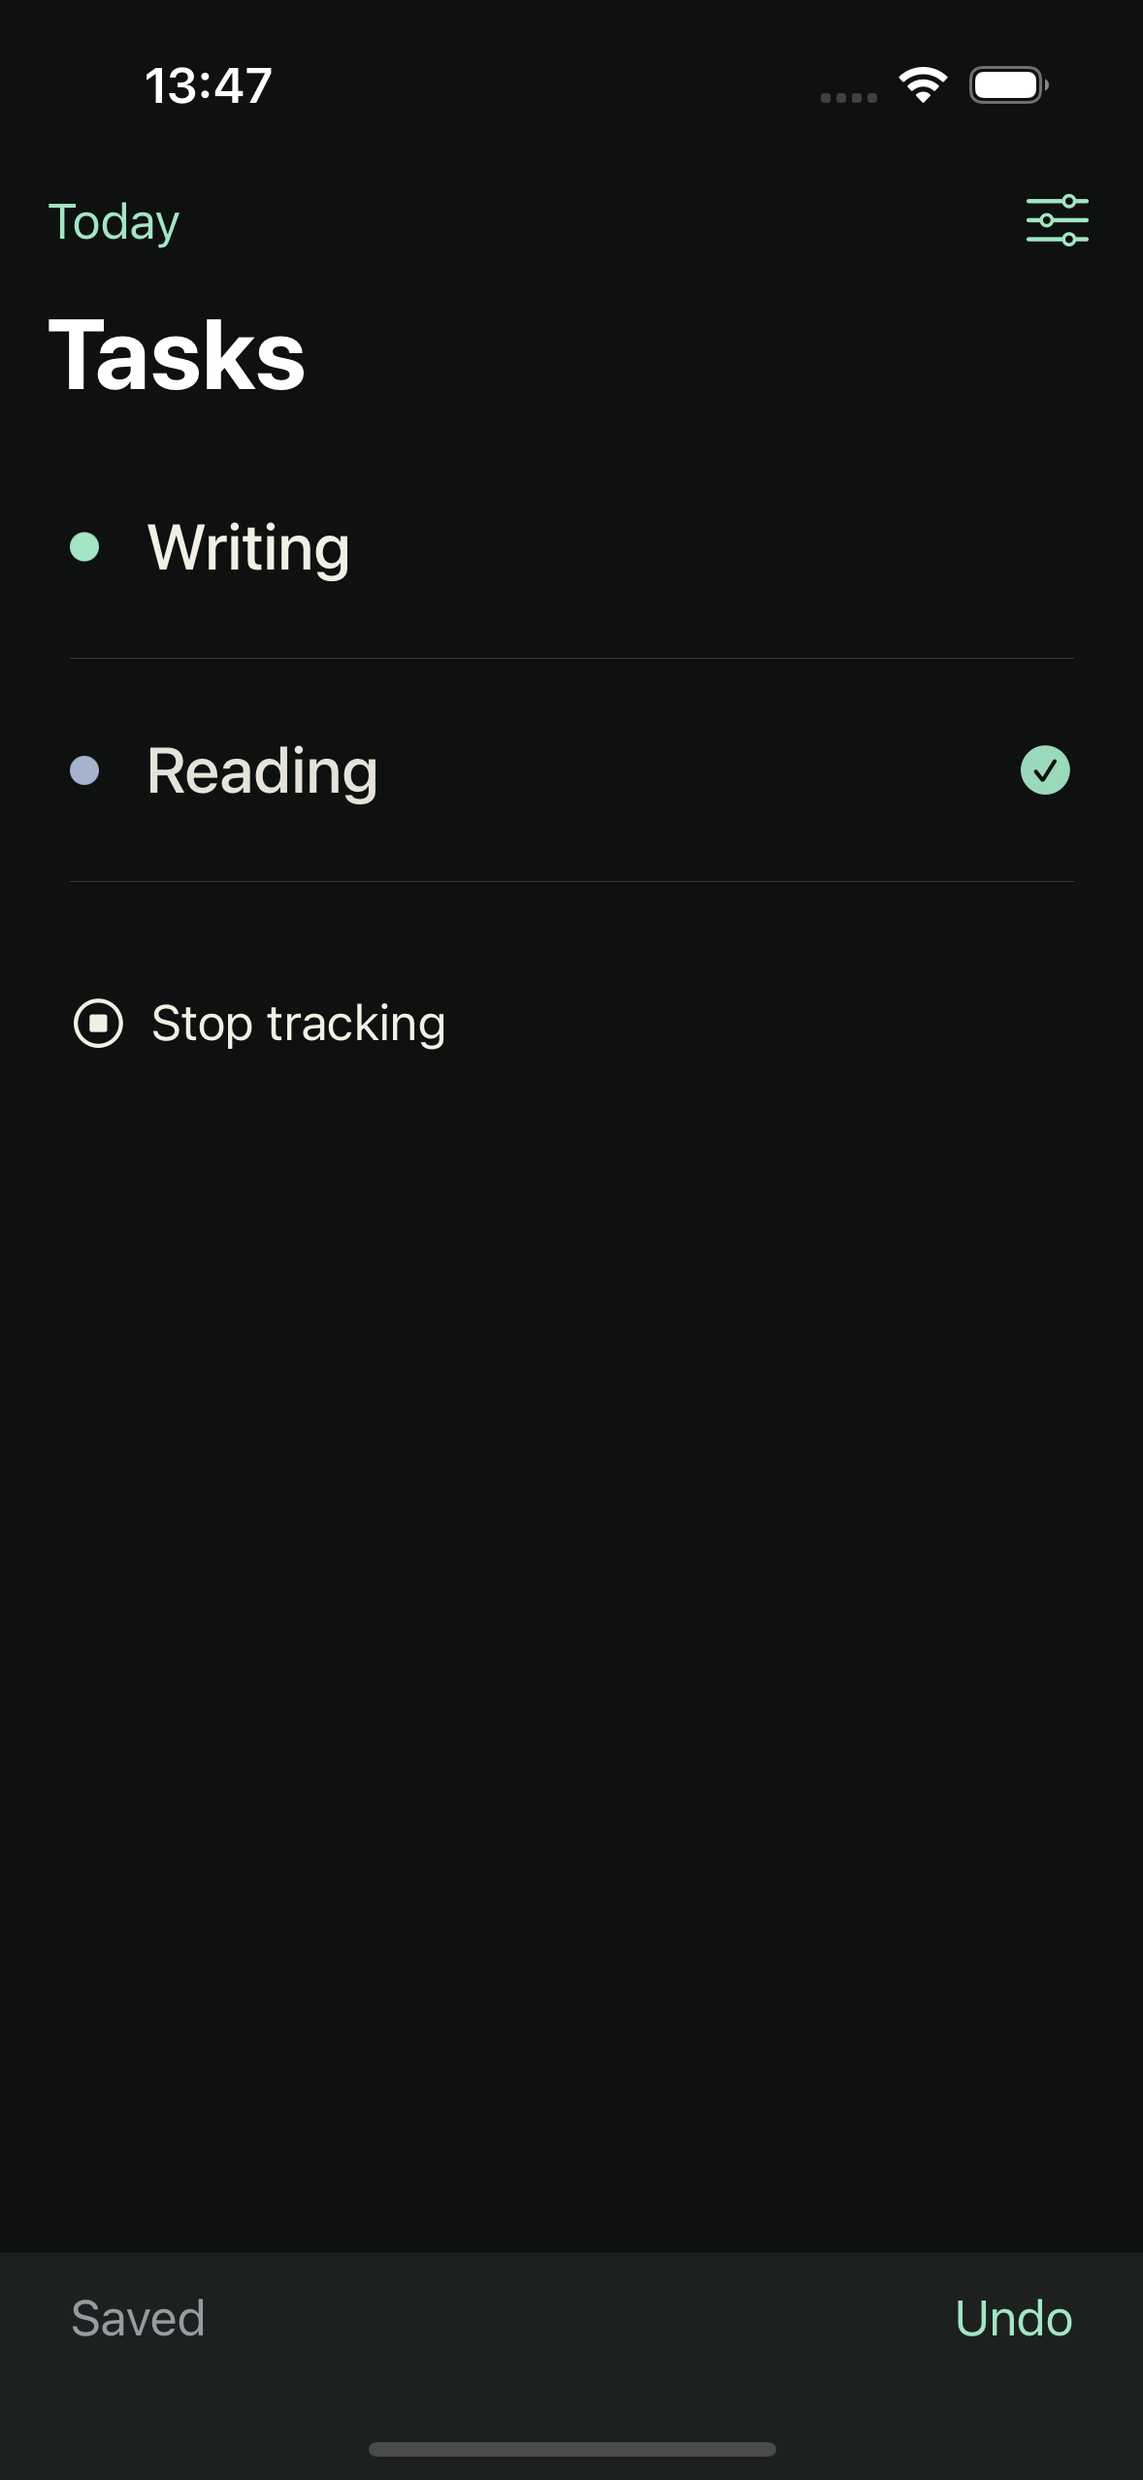
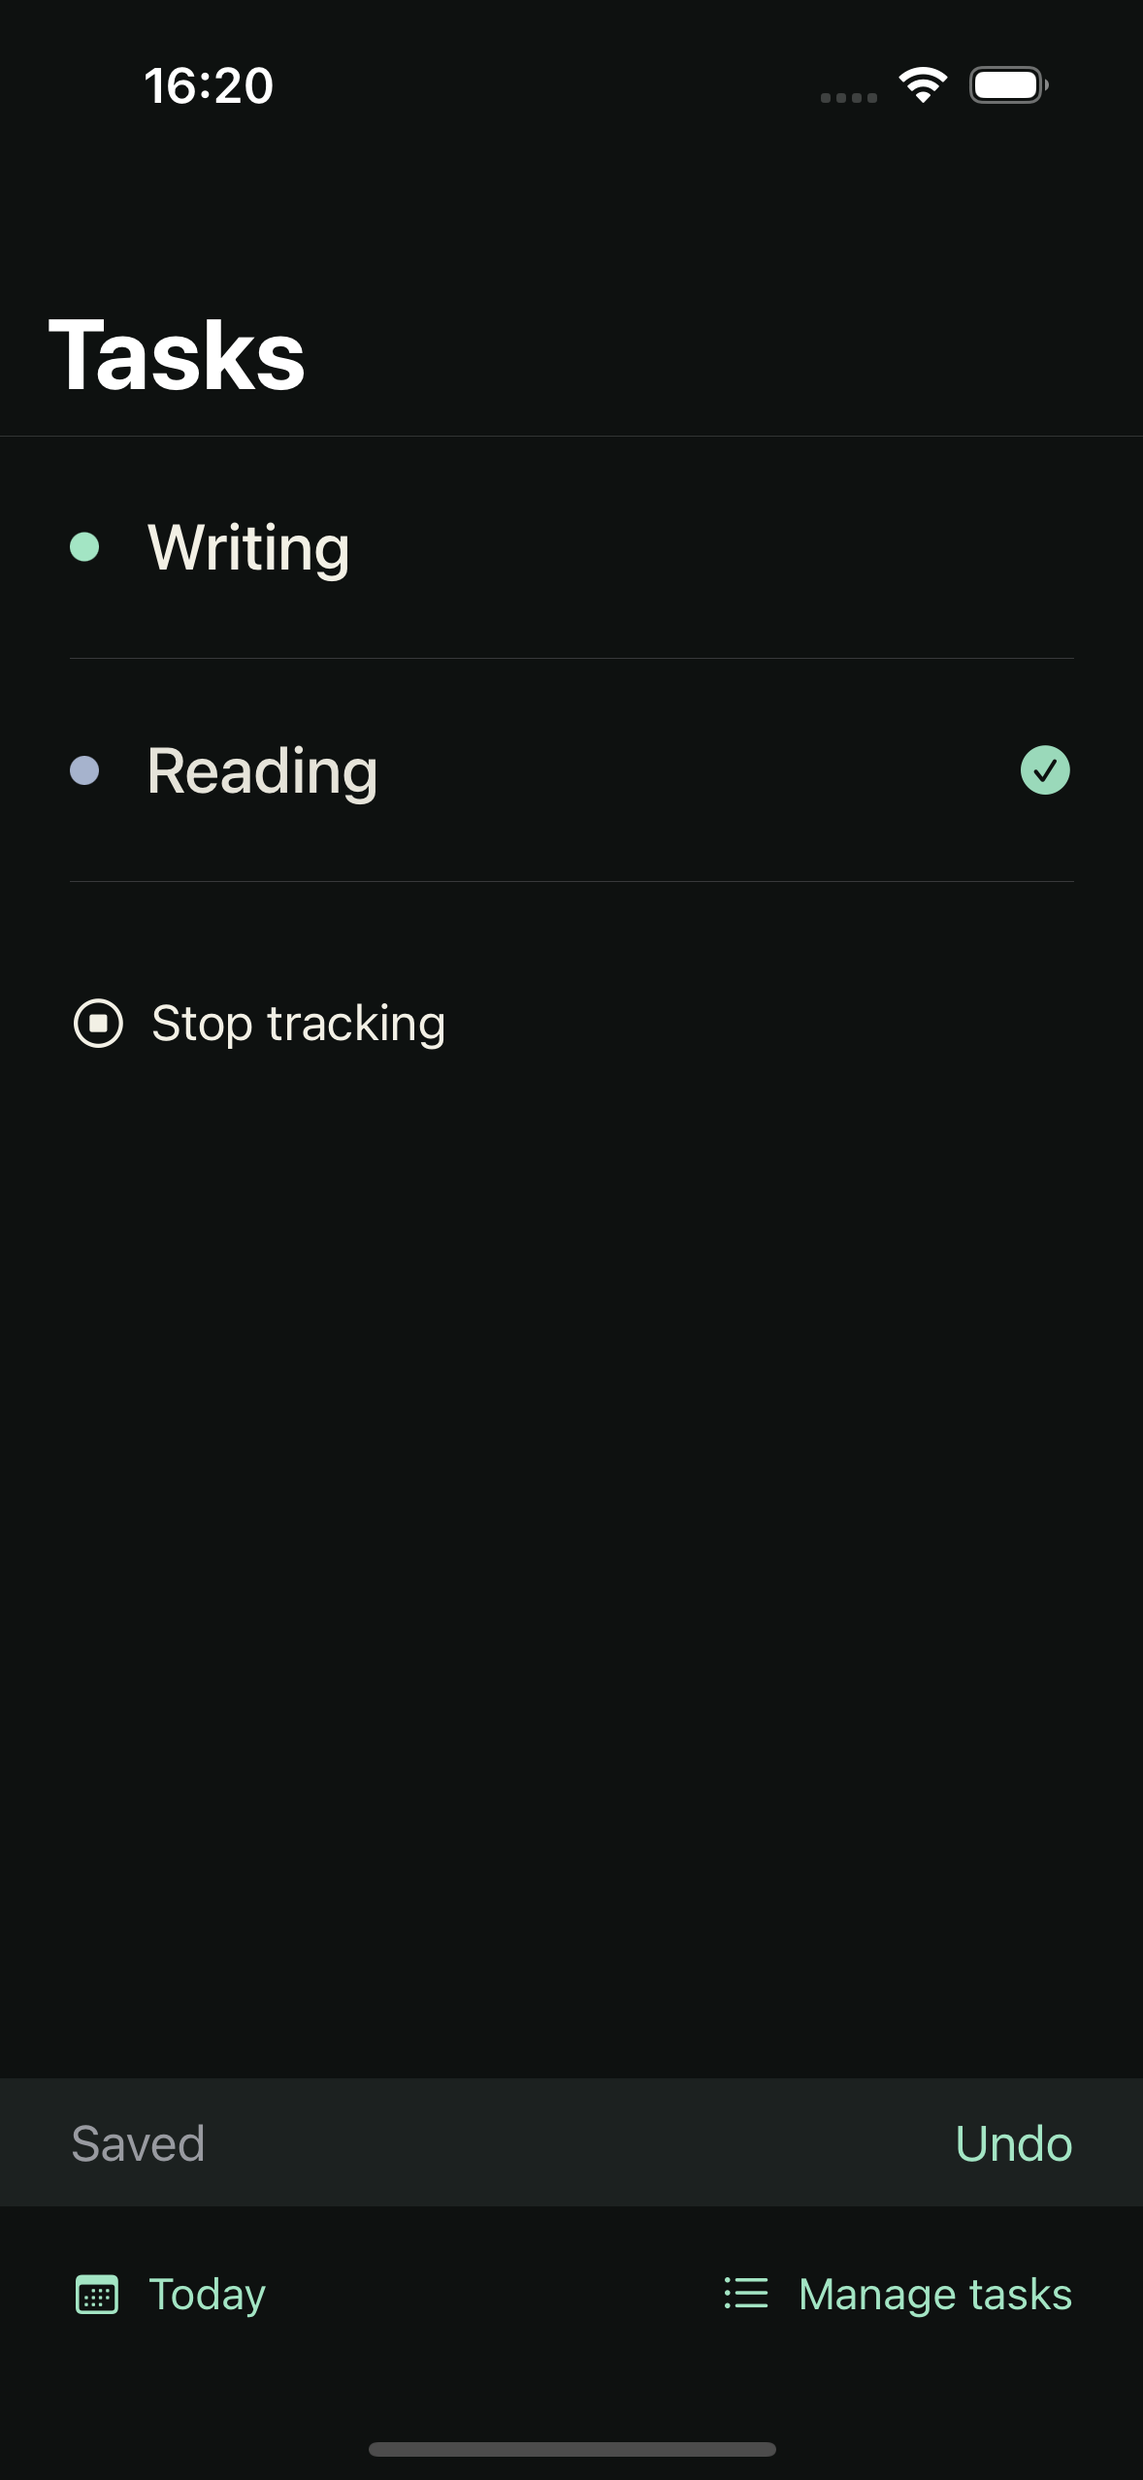
Simplify task creation and picker navigation

diff --git a/App/ManageTasksView.swift b/App/ManageTasksView.swift
@@ -3,7 +3,9 @@ import SwiftUI
 struct ManageTasksView: View {
     @EnvironmentObject private var model: AppModel
     @Environment(\.dismiss) private var dismiss
-    @State private var add = false
+    @State private var newTaskName = ""
+    @State private var validation: String?
+    @FocusState private var creatorFocused: Bool
     @State private var editing: TrackedTask?
     var body: some View {
         NavigationStack {
@@ -21,19 +23,47 @@ struct ManageTasksView: View {
                                 }
                             }.frame(minHeight: 44)
                         }.listRowBackground(Theme.surface)
+                            .accessibilityIdentifier("managed-task-\(task.name)")
                     }.onMove { source, destination in
                         var ids = model.state.visibleTasks.map(\.id)
                         ids.move(fromOffsets: source, toOffset: destination)
                         Task { _ = await model.perform { try await model.store.reorder(ids) } }
                     }
-                } footer: { Text("Drag to set a stable order. Tap a task to rename, choose its color, archive, or set a Live Activity shortcut (up to three).") }
-                Button("Add task", systemImage: "plus") { add = true }.frame(minHeight: 44)
+                } footer: { Text("Drag to reorder. Tap a task to edit it.") }
+                HStack {
+                    Image(systemName: "plus.circle.fill").foregroundStyle(Theme.mint)
+                        .accessibilityHidden(true)
+                    TextField("New task", text: $newTaskName)
+                        .accessibilityIdentifier("new-task-name")
+                        .focused($creatorFocused).submitLabel(.done)
+                        .onSubmit { Task { await addTask() } }
+                    if !newTaskName.trimmingCharacters(in: .whitespacesAndNewlines).isEmpty {
+                        Button("Add") { Task { await addTask() } }
+                            .buttonStyle(.borderless).frame(minHeight: 44).disabled(model.busy)
+                    }
+                }.frame(minHeight: 44).listRowBackground(Theme.surface)
+                if let validation { Text(validation).foregroundStyle(.red) }
             }.scrollContentBackground(.hidden).background(Theme.background)
                 .navigationTitle("Manage tasks")
                 .environment(\.editMode, .constant(.active))
                 .toolbar { ToolbarItem(placement: .confirmationAction) { Button("Done") { dismiss() } } }
-                .sheet(isPresented: $add) { TaskEditorView() }
                 .sheet(item: $editing) { TaskEditorView(task: $0) }
+                .task {
+                    if model.state.visibleTasks.isEmpty { creatorFocused = true }
+                }
+        }
+    }
+
+    private func addTask() async {
+        let name = newTaskName.trimmingCharacters(in: .whitespacesAndNewlines)
+        guard !name.isEmpty, !model.busy else { return }
+        if await model.perform({ try await model.store.saveTask(name: name) }) {
+            newTaskName = ""
+            validation = nil
+            creatorFocused = true
+        } else {
+            validation = model.error
+            model.error = nil
         }
     }
 }
@@ -41,7 +71,7 @@ struct ManageTasksView: View {
 struct TaskEditorView: View {
     @EnvironmentObject private var model: AppModel
     @Environment(\.dismiss) private var dismiss
-    var task: TrackedTask?
+    let task: TrackedTask
     @State private var name = ""
     @State private var color = 0
     @State private var shortcut = false
@@ -52,32 +82,28 @@ struct TaskEditorView: View {
             Form {
                 TextField("Task name", text: $name).accessibilityIdentifier("task-name")
                 if let validation { Text(validation).foregroundStyle(.red) }
-                if task != nil {
-                    Picker("Color", selection: $color) {
-                        ForEach(0..<6) { index in
-                            Text(colorNames[index]).tag(index)
-                        }
+                Picker("Color", selection: $color) {
+                    ForEach(0..<6) { index in
+                        Text(colorNames[index]).tag(index)
                     }
-                    Toggle("Live Activity shortcut", isOn: $shortcut)
-                    Button("Archive task", role: .destructive) {
-                        guard let task else { return }
-                        Task {
-                            if await model.perform({ try await model.store.archive(task.id) }) { dismiss() }
-                        }
-                    }
-                    Text("Archiving keeps history and stops this task if it is recording.")
-                        .font(.footnote).foregroundStyle(.secondary)
                 }
+                Toggle("Live Activity shortcut", isOn: $shortcut)
+                Button("Archive task", role: .destructive) {
+                    Task {
+                        if await model.perform({ try await model.store.archive(task.id) }) { dismiss() }
+                    }
+                }
+                Text("Archiving keeps history and stops this task if it is recording.")
+                    .font(.footnote).foregroundStyle(.secondary)
             }.scrollContentBackground(.hidden).background(Theme.background)
-                .navigationTitle(title)
+                .navigationTitle("Edit task")
                 .toolbar {
                     ToolbarItem(placement: .cancellationAction) { Button("Cancel") { dismiss() } }
                     ToolbarItem(placement: .confirmationAction) {
                         Button("Save") {
                             Task {
                                 let saved = await model.perform {
-                                    if let task { return try await model.store.saveTask(id: task.id, name: name, color: color, shortcut: shortcut) }
-                                    return try await model.store.saveTask(name: name)
+                                    try await model.store.saveTask(id: task.id, name: name, color: color, shortcut: shortcut)
                                 }
                                 if saved { dismiss() }
                                 else { validation = model.error; model.error = nil }
@@ -87,13 +113,9 @@ struct TaskEditorView: View {
                 }.onAppear {
                     guard !loaded else { return }
                     loaded = true
-                    if let task { name = task.name; color = task.color; shortcut = task.shortcut }
+                    name = task.name; color = task.color; shortcut = task.shortcut
                 }
         }
-    }
-    private var title: String {
-        if task != nil { return "Edit task" }
-        return "Add task"
     }
     private let colorNames = ["Mint", "Slate", "Sand", "Lavender", "Sage", "Rose"]
 }

diff --git a/App/TasksView.swift b/App/TasksView.swift
@@ -2,56 +2,70 @@ import SwiftUI
 
 struct TasksView: View {
     @EnvironmentObject private var model: AppModel
+    @Environment(\.dynamicTypeSize) private var textSize
     @State private var audit = false
     @State private var management = false
-    @State private var creation = false
 
     var body: some View {
         NavigationStack {
-            ScrollView {
-                VStack(alignment: .leading, spacing: 0) {
-                    if model.state.visibleTasks.isEmpty {
-                        VStack(alignment: .leading, spacing: 20) {
-                            Text("Add a task, then tap it to record.")
-                                .foregroundStyle(.secondary)
-                            Button("Add task", systemImage: "plus") { creation = true }
-                                .buttonStyle(.borderedProminent).foregroundStyle(Theme.background)
-                                .frame(minHeight: 44)
-                        }.padding(.vertical, 48)
-                    }
-                    ForEach(model.state.visibleTasks) { task in
-                        taskRow(task)
-                        Divider()
-                    }
-                    if model.state.active != nil {
-                        Button("Stop tracking", systemImage: "stop.circle") {
-                            Task { await model.select(nil) }
-                        }.frame(minHeight: 56).padding(.top, 20)
-                    }
-                    if let notice = model.presentationNotice {
-                        Text(notice).font(.footnote).foregroundStyle(.secondary).padding(.top, 16)
-                    }
-                }.padding(.horizontal, 24)
+            ZStack {
+                Theme.background.ignoresSafeArea()
+                ScrollView {
+                    VStack(alignment: .leading, spacing: 0) {
+                        if model.state.visibleTasks.isEmpty {
+                            VStack(alignment: .leading, spacing: 20) {
+                                Text("Add a task, then tap it to record.")
+                                    .foregroundStyle(.secondary)
+                                Button("Add task", systemImage: "plus") { management = true }
+                                    .buttonStyle(.borderedProminent).foregroundStyle(Theme.background)
+                                    .frame(minHeight: 44)
+                            }.padding(.vertical, 48)
+                        }
+                        ForEach(model.state.visibleTasks) { task in
+                            taskRow(task)
+                            Divider()
+                        }
+                        if model.state.active != nil {
+                            Button("Stop tracking", systemImage: "stop.circle") {
+                                Task { await model.select(nil) }
+                            }.frame(minHeight: 56).padding(.top, 20)
+                        }
+                        if let notice = model.presentationNotice {
+                            Text(notice).font(.footnote).foregroundStyle(.secondary).padding(.top, 16)
+                        }
+                    }.frame(maxWidth: .infinity, alignment: .leading).padding(.horizontal, 24)
+                }.frame(maxWidth: .infinity, maxHeight: .infinity)
             }
-            .background(Theme.background).foregroundStyle(Theme.text)
+            .foregroundStyle(Theme.text)
             .navigationTitle("Tasks")
-            .toolbar {
-                ToolbarItem(placement: .topBarLeading) {
-                    Button("Today") { audit = true }.frame(minHeight: 44)
-                }
-                ToolbarItem(placement: .topBarTrailing) {
-                    Button("Manage tasks", systemImage: "slider.horizontal.3") { management = true }
-                        .frame(minWidth: 44, minHeight: 44)
-                }
+            .toolbarBackground(Theme.background, for: .navigationBar)
+            .toolbarBackground(.visible, for: .navigationBar)
+            .safeAreaInset(edge: .bottom, spacing: 0) {
+                VStack(spacing: 0) {
+                    undoBar
+                    bottomLayout {
+                        Button("Today", systemImage: "calendar") { audit = true }
+                            .frame(minHeight: 44)
+                        if !textSize.isAccessibilitySize { Spacer() }
+                        Button("Manage tasks", systemImage: "list.bullet") { management = true }
+                            .frame(minHeight: 44)
+                    }.font(.subheadline).frame(maxWidth: .infinity, minHeight: 44, alignment: .leading)
+                        .padding(.horizontal, 24).padding(.vertical, 8)
+                }.background(Theme.background.ignoresSafeArea(edges: .bottom))
             }
-            .safeAreaInset(edge: .bottom) { undoBar }
             .sheet(isPresented: $audit) { AuditView() }
             .sheet(isPresented: $management) { ManageTasksView() }
-            .sheet(isPresented: $creation) { TaskEditorView() }
             .onOpenURL { url in
-                if url.scheme == "frictionless" { audit = false; management = false; creation = false }
+                if url.scheme == "frictionless" { audit = false; management = false }
             }
+        }.background(Theme.background.ignoresSafeArea())
+    }
+
+    private var bottomLayout: AnyLayout {
+        if textSize.isAccessibilitySize {
+            return AnyLayout(VStackLayout(alignment: .leading, spacing: 8))
         }
+        return AnyLayout(HStackLayout())
     }
 
     private func taskRow(_ task: TrackedTask) -> some View {

diff --git a/UITests/FrictionlessUITests.swift b/UITests/FrictionlessUITests.swift
@@ -10,11 +10,16 @@ final class FrictionlessUITests: XCTestCase {
 
     private func addTask(_ app: XCUIApplication, name: String) {
         app.buttons["Add task"].firstMatch.tap()
-        let input = app.textFields["task-name"]
+        XCTAssertTrue(app.navigationBars["Manage tasks"].waitForExistence(timeout: 5))
+        XCTAssertFalse(app.navigationBars["Add task"].exists)
+        let input = app.textFields["new-task-name"]
         XCTAssertTrue(input.waitForExistence(timeout: 5))
         input.tap()
         input.typeText(name)
-        app.buttons["Save"].tap()
+        app.buttons["Add"].tap()
+        XCTAssertTrue(app.buttons["managed-task-\(name)"].waitForExistence(timeout: 5))
+        capture(app, "Inline task creation")
+        app.navigationBars["Manage tasks"].buttons["Done"].tap()
         XCTAssertTrue(app.buttons["task-\(name)"].waitForExistence(timeout: 5))
     }
 
@@ -26,12 +31,11 @@ final class FrictionlessUITests: XCTestCase {
         capture(app, "Empty tasks")
         addTask(app, name: "Writing")
         app.buttons["Manage tasks"].tap()
-        app.buttons["Add task"].tap()
-        let field = app.textFields["task-name"]
+        let field = app.textFields["new-task-name"]
         XCTAssertTrue(field.waitForExistence(timeout: 5))
         field.tap(); field.typeText("Reading")
-        app.buttons["Save"].tap()
-        app.buttons["Done"].tap()
+        app.buttons["Add"].tap()
+        app.navigationBars["Manage tasks"].buttons["Done"].tap()
         app.buttons["task-Writing"].tap()
         XCTAssertTrue(app.buttons["Stop tracking"].waitForExistence(timeout: 5))
         app.buttons["task-Reading"].tap()

diff --git a/README.md b/README.md
@@ -20,9 +20,9 @@ Changing the App Group creates a separate database; retain the old group to reta
 
 ## Use
 
-- Add a name, then tap its row to record. Same-task taps do nothing. Stop tracking is explicit. Undo lasts eight seconds and expires after later changes.
+- Add task opens the manager. Enter names inline with New task, then tap a task in the picker to record. Same-task taps do nothing. Stop tracking is explicit. Undo lasts eight seconds and expires after later changes.
 - Manage tasks to rename, reorder, choose a muted color, archive, or select up to three Live Activity shortcuts. The first three tasks are initial shortcuts. Archive retains history and stops an active task.
-- Today opens duration bars and a timeline with untracked gaps. Tap an interval to correct it. “Started earlier” offers 5/15/30-minute offsets. Moving a shared switch boundary also adjusts the previous task’s end. Invalid overlaps, negative durations, and future edits are rejected.
+- Today and Manage tasks sit at the bottom of the picker. Today opens duration bars and a timeline with untracked gaps. Tap an interval to correct it. “Started earlier” offers 5/15/30-minute offsets. Moving a shared switch boundary also adjusts the previous task’s end. Invalid overlaps, negative durations, and future edits are rejected.
 - Live Activity shortcut buttons switch directly. All tasks and the activity body open the picker. Standard system touch-and-hold expands the Dynamic Island.
 
 **Eight-hour limitation:** Live Activity presentation expires after eight hours. Timestamp-based recording continues. The next eligible interaction restores presentation without splitting the interval. There is no automatic renewal, background timer, or push service.

diff --git a/VERIFICATION.md b/VERIFICATION.md
@@ -14,6 +14,10 @@ The complete suite reported `TEST SUCCEEDED`; the final fixture test also report
 
 Inspected rendered empty/task screens, audit bars/timeline, interval editor, and largest-text picker/audit. Also inspected iOS 26 simulator renders during implementation. Saved iOS 17 screenshots: [Tasks](Screenshots/tasks.png), [Audit after correction](Screenshots/audit.png), [Largest-text audit](Screenshots/large-text-audit.png). Screenshot records exist only in explicit debug UI-test storage; normal first launch is empty.
 
+## Task picker update
+
+The three UI tests passed again after replacing the add-task sheet with inline creation in the manager and moving Today / Manage tasks to the bottom. Inspected empty and populated picker screenshots: the background fills the screen. Bottom controls stack vertically at accessibility text sizes; a targeted largest-text test verifies that layout. Storage logic is unchanged; the ten unit tests above were not rerun for this UI-only update.
+
 ## Remaining device checks
 
 No physical iPhone was available for testing. Select your actual developer team and enable the shared App Group on both targets before running on your iPhone. Device provisioning/signing has not been verified.
